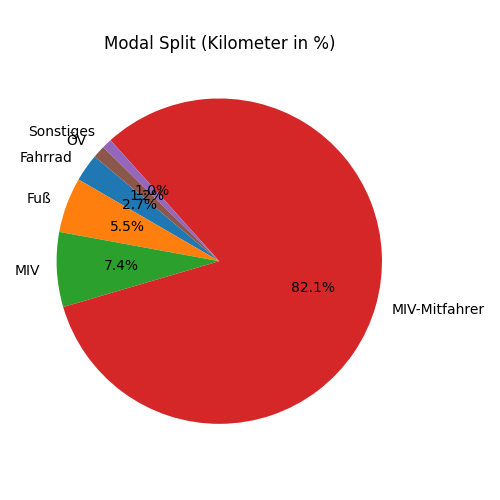
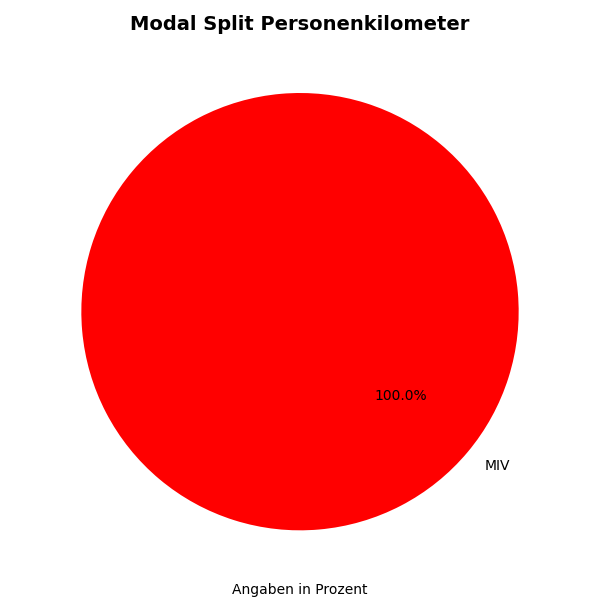
Adjusted modal split design

diff --git a/code/current_version.py b/code/current_version.py
@@ -43,15 +43,12 @@ def parse_or_reverse_geocode(s):
     Ist es Koordinate (lat, lon) -> Reverse-Geocoding.
     Sonst -> Forward-Geocoding.
     """
-    # Falls Komma vorhanden, versuchen wir "lat, lon" zu parsen
     if "," in s:
         try:
             lat_str, lon_str = s.split(",")
             lat = float(lat_str.strip())
             lon = float(lon_str.strip())
-            # Reverse-Geocoding: aus Koordinaten Adresse bekommen
             location = geolocator.reverse((lat, lon))
-            # location kann None sein, falls kein Eintrag gefunden
             if location:
                 return (lat, lon)
             else:
@@ -287,16 +284,13 @@ class TrafficDiaryApp:
         self.tooltip_window_mode = tk.Toplevel(self.root)
         self.tooltip_window_mode.wm_overrideredirect(True)
 
-        # Position (x, y) leicht unterhalb des Fragezeichens
         x = event.x_root
         y = event.y_root + 20
         self.tooltip_window_mode.geometry(f"+{x}+{y}")
 
-        # Rahmen um den Tooltip
         table_frame = tk.Frame(self.tooltip_window_mode, background="white", relief="solid", borderwidth=1)
         table_frame.pack()
 
-        # Kopfzeile fett
         header_text = f"{'Verkehrsmittel':<15}{'Hierzu gehören':<40}"
         header_label = tk.Label(
             table_frame,
@@ -307,7 +301,6 @@ class TrafficDiaryApp:
         )
         header_label.pack(anchor="w", padx=5, pady=(5, 2))
 
-        # Körper normal
         body_text = (
             f"{'Fahrrad':<15}Pedelec, Lastenrad, E-Scooter, Cityroller etc.\n"
             f"{'Fuß':<15}\n"
@@ -326,7 +319,6 @@ class TrafficDiaryApp:
         body_label.pack(anchor="w", padx=5, pady=(0, 5))
 
     def hide_mode_tooltip(self, event):
-        """Tooltip-Fenster schließen, wenn der Mauszeiger das Fragezeichen (Verkehrsmittel) verlässt."""
         if self.tooltip_window_mode is not None:
             self.tooltip_window_mode.destroy()
             self.tooltip_window_mode = None
@@ -335,24 +327,19 @@ class TrafficDiaryApp:
     #  Tooltip-Methoden für Wegezweck (zweites Fragezeichen)
     # --------------------------------------------------
     def show_purpose_tooltip(self, event):
-        """Tooltip für den Wegezweck (zweites Fragezeichen)."""
         if self.tooltip_window_purpose is not None:
             return  # Schon offen
 
-        # Toplevel-Fenster ohne Rahmen
         self.tooltip_window_purpose = tk.Toplevel(self.root)
         self.tooltip_window_purpose.wm_overrideredirect(True)
 
-        # Position (x, y) leicht unterhalb des Fragezeichens
         x = event.x_root
         y = event.y_root + 20
         self.tooltip_window_purpose.geometry(f"+{x}+{y}")
 
-        # Rahmen um den Tooltip
         table_frame = tk.Frame(self.tooltip_window_purpose, background="white", relief="solid", borderwidth=1)
         table_frame.pack()
 
-        # Kopfzeile fett
         header_text = f"{'Wegezweck':<12}{'Beispiel'}"
         header_label = tk.Label(
             table_frame,
@@ -363,7 +350,6 @@ class TrafficDiaryApp:
         )
         header_label.pack(anchor="w", padx=5, pady=(5, 2))
 
-        # Körper normal
         body_text = (
             f"{'Arbeit':<12}Weg zur Arbeitsstätte\n"
             f"{'Ausbildung':<12}Zur Universität, zur Schule etc.\n"
@@ -385,7 +371,6 @@ class TrafficDiaryApp:
         body_label.pack(anchor="w", padx=5, pady=(0, 5))
 
     def hide_purpose_tooltip(self, event):
-        """Tooltip-Fenster schließen, wenn der Mauszeiger das Fragezeichen (Wegezweck) verlässt."""
         if self.tooltip_window_purpose is not None:
             self.tooltip_window_purpose.destroy()
             self.tooltip_window_purpose = None
@@ -748,17 +733,12 @@ class TrafficDiaryApp:
             handle_error("Keine Daten zum Auswerten vorhanden.", self.message_label)
             return
 
-        # Optional sicherstellen, dass "Distanz (km)" wirklich numerisch ist
+        # Falls "Distanz (km)" nicht numerisch ist, konvertieren:
         df["Distanz (km)"] = pd.to_numeric(df["Distanz (km)"], errors="coerce")
 
         create_chart_directory()
 
-        # ---------------------------------------------------
-        # 1) Modal Split (Anzahl Wege in %)
-        # ---------------------------------------------------
-        ways_by_mode_percent = df["Modus"].value_counts(normalize=True) * 100
-
-        # Definiere Farbzuordnung für jedes Verkehrsmittel:
+        # --- Farbzuordnung für alle Diagramme ---
         color_map = {
             "MIV": "red",            # rot
             "MIV-Mitfahrer": "orange",
@@ -768,23 +748,26 @@ class TrafficDiaryApp:
             "Sonstiges": "pink"      # pink
         }
 
-        # Index des Series-Objekts (z.B. ["Fahrrad", "MIV", ...])
-        modes = ways_by_mode_percent.index
-        # Für jeden Modus die passende Farbe holen
-        colors = [color_map.get(m, "grey") for m in modes]
+        # ---------------------------------------------------
+        # 1) Modal Split (Anzahl Wege in %)
+        # ---------------------------------------------------
+        ways_by_mode_percent = df["Modus"].value_counts(normalize=True) * 100
 
         ways_chart_path = os.path.join(CHART_DIRECTORY, "modal_split_ways.png")
+
+        # Farben in der Reihenfolge der auftretenden Modi
+        ways_modes = ways_by_mode_percent.index
+        ways_colors = [color_map.get(m, "grey") for m in ways_modes]
 
         plt.figure(figsize=(6, 6))
         plt.pie(
             ways_by_mode_percent,
-            labels=modes,
+            labels=ways_modes,
             autopct="%.1f%%",
             startangle=140,
-            colors=colors
+            colors=ways_colors
         )
         plt.title("Modal Split Wege", fontsize=14, fontweight="bold")
-        # Hinweis unter dem Diagramm
         plt.figtext(0.5, 0.01, "Angaben in Prozent", ha="center", fontsize=10)
 
         plt.tight_layout()
@@ -792,7 +775,7 @@ class TrafficDiaryApp:
         plt.close()
 
         # ---------------------------------------------------
-        # 2) Modal Split (Kilometer in %)
+        # 2) Modal Split Personenkilometer
         # ---------------------------------------------------
         km_sum_by_mode = df.groupby("Modus")["Distanz (km)"].sum()
         total_km = km_sum_by_mode.sum()
@@ -803,12 +786,21 @@ class TrafficDiaryApp:
         km_by_mode_percent = (km_sum_by_mode / total_km) * 100
         km_chart_path = os.path.join(CHART_DIRECTORY, "modal_split_km.png")
 
-        plt.figure(figsize=(5, 5))
-        km_by_mode_percent.plot(
-            kind="pie", autopct="%.1f%%", startangle=140
+        # Farben in der Reihenfolge der auftretenden Modi (Kilometer)
+        km_modes = km_by_mode_percent.index
+        km_colors = [color_map.get(m, "grey") for m in km_modes]
+
+        plt.figure(figsize=(6, 6))
+        plt.pie(
+            km_by_mode_percent,
+            labels=km_modes,
+            autopct="%.1f%%",
+            startangle=140,
+            colors=km_colors
         )
-        plt.title("Modal Split (Kilometer in %)")
-        plt.ylabel("")
+        plt.title("Modal Split Personenkilometer", fontsize=14, fontweight="bold")
+        plt.figtext(0.5, 0.01, "Angaben in Prozent", ha="center", fontsize=10)
+
         plt.tight_layout()
         plt.savefig(km_chart_path)
         plt.close()
@@ -818,14 +810,14 @@ class TrafficDiaryApp:
         analysis_window.title("Analyse Ergebnisse: Modal Split")
 
         try:
-            # 1) Bild für Wege (Modal Split Wege)
+            # 1) Bild für Wege
             ways_img = Image.open(ways_chart_path)
             ways_photo = ImageTk.PhotoImage(ways_img)
             ways_label = tk.Label(analysis_window, image=ways_photo)
             ways_label.image = ways_photo
             ways_label.pack(side=tk.LEFT, padx=10, pady=10)
 
-            # 2) Bild für Kilometer (Modal Split km)
+            # 2) Bild für Personenkilometer
             km_img = Image.open(km_chart_path)
             km_photo = ImageTk.PhotoImage(km_img)
             km_label = tk.Label(analysis_window, image=km_photo)
